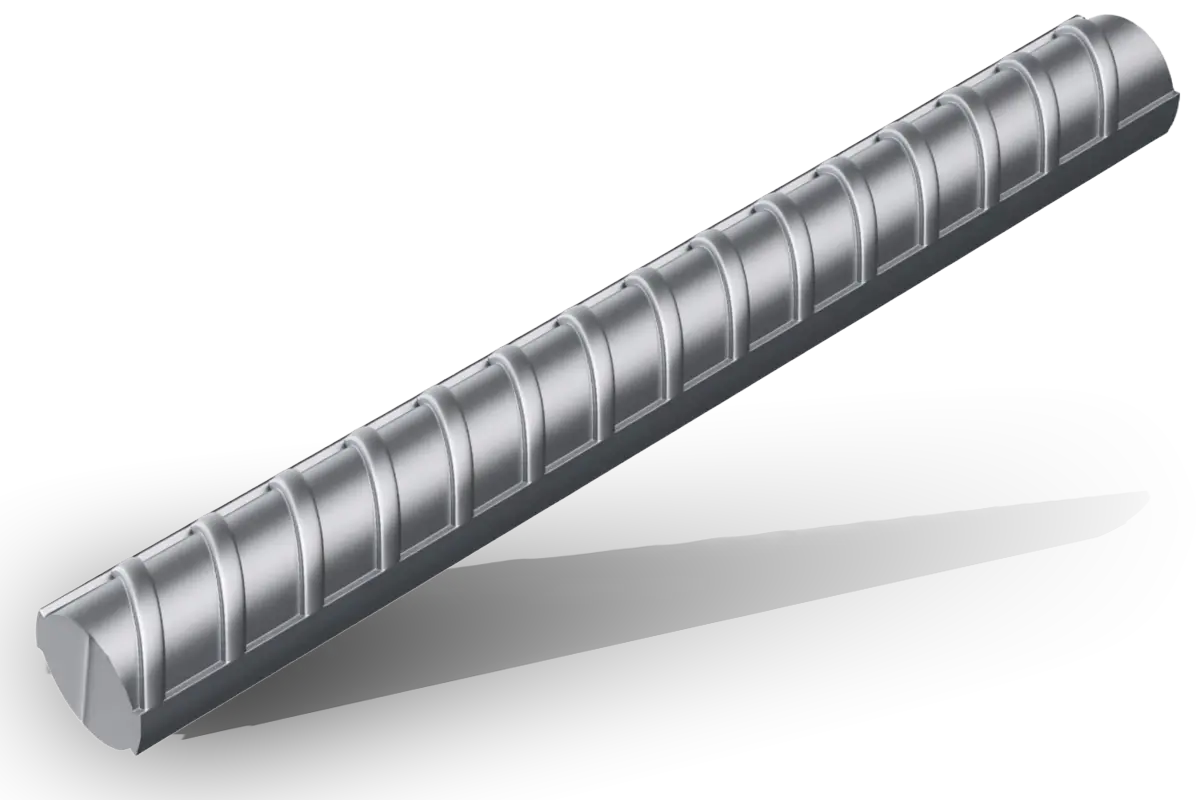
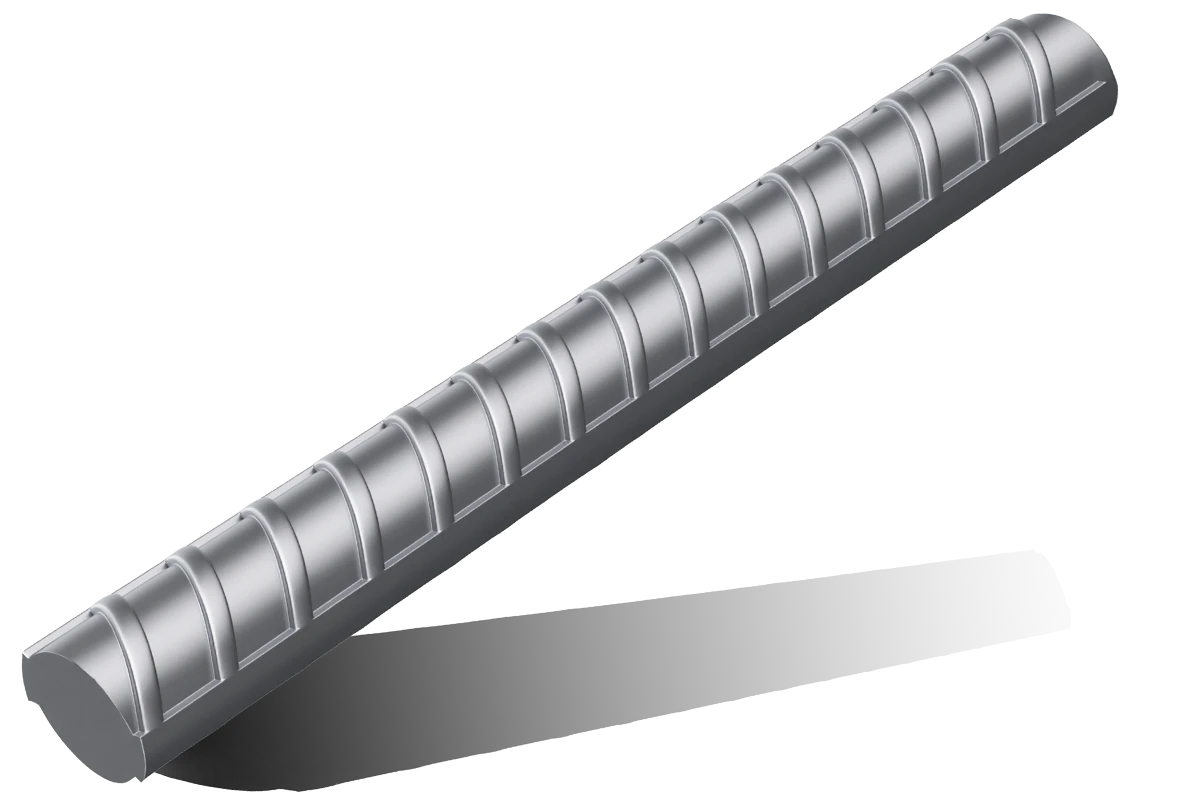
feat(products): redesign page with bilingual artwork and orange theme
- Add bilingual background image to right panel (warehouse photo
  at 40% opacity) and bilingual 3D product renders (TMT bars,
  billets) keyed by slug + language via getProductImage helper.
- Replace shadow-baked TMT renders with clean versions.
- Set left panel to solid brand orange (bg-primary), right panel
  inherits black from section with background image overlay.
- Warm opposite-language assets during idle time and add Blade
  preload hints on products.index route.
- Redesign desktop thumbnails: remove border/ring/opacity/dark
  overlay, render images as object-contain, selected product name
  in orange + bold + larger text, non-selected in plain white.
- Restyle Explore More and Back to Products buttons to solid
  white with orange text, subtle bounce animation after 2s.
- Reposition featured product image further right on large
  screens; bump thumbnail base width from w-24 to w-36 so they
  aren't tiny between 1024–1279px.
- Move next-product nav button further left with brighter
  border/text for visibility.
- Adapt all expanded-section colors for orange background: table
  headers, spec icons, checkmarks, feature cards, quote button,
  and tab borders switched from orange accents to white accents.
- Add bounce-subtle CSS keyframe (6px travel) in app.css.

Changed region(s): [[0.0, 0.0, 0.9867, 1.0]]

diff --git a/resources/js/Pages/Public/Products.tsx b/resources/js/Pages/Public/Products.tsx
@@ -87,11 +87,11 @@ function SpecDataTable({ tableData }: { tableData: { title: string; headers: str
       <div className="overflow-x-auto">
         <table className="w-full border-collapse">
           <thead>
-            <tr className="bg-white/10">
+            <tr className="bg-white/20">
               {tableData.headers.map((header: string, i: number) => (
                 <th
                   key={i}
-                  className="text-start py-3 px-4 text-sm font-semibold text-primary border-b border-white/10 max-w-32 relative cursor-pointer select-none"
+                  className="text-start py-3 px-4 text-sm font-semibold text-white border-b border-white/20 max-w-32 relative cursor-pointer select-none"
                   title={header}
                   onClick={(e) => { e.stopPropagation(); setExpandedHeader(expandedHeader === i ? null : i); }}
                 >
@@ -126,7 +126,7 @@ function SpecDataTable({ tableData }: { tableData: { title: string; headers: str
           </thead>
           <tbody>
             {tableData.rows.map((row: string[], rowIndex: number) => (
-              <tr key={rowIndex} className="border-b border-white/5 hover:bg-white/5 transition-colors">
+              <tr key={rowIndex} className="border-b border-white/15 hover:bg-white/10 transition-colors">
                 {row.map((cell: string, cellIndex: number) => (
                   <td key={cellIndex} className={`py-3 px-4 text-sm ${cellIndex === 0 ? 'font-medium text-white' : 'text-white/70'}`}>
                     {cell}
@@ -228,7 +228,7 @@ export default function Products({ products }: Props) {
   const [showAttention, setShowAttention] = useState(false);
   useEffect(() => {
     if (!expanded) { setShowAttention(false); return; }
-    const timer = setTimeout(() => setShowAttention(true), 10000);
+    const timer = setTimeout(() => setShowAttention(true), 2000);
     return () => clearTimeout(timer);
   }, [expanded]);
 
@@ -236,7 +236,7 @@ export default function Products({ products }: Props) {
   const [showExploreAttention, setShowExploreAttention] = useState(false);
   useEffect(() => {
     if (expanded) { setShowExploreAttention(false); return; }
-    const timer = setTimeout(() => setShowExploreAttention(true), 10000);
+    const timer = setTimeout(() => setShowExploreAttention(true), 2000);
     return () => clearTimeout(timer);
   }, [expanded, selectedSlug]);
 
@@ -364,10 +364,10 @@ export default function Products({ products }: Props) {
             <div className="grid grid-cols-3 gap-6 mt-8">
               {Object.entries(t(`products.${productKey}.specIcons`, { returnObjects: true }) as Record<string, { title: string; value: string }>).map(([key, icon]) => (
                 <div key={key} className="text-center">
-                  <div className="w-14 h-14 mx-auto mb-3 border border-white/20 rounded-lg flex items-center justify-center">
-                    {key === 'diameterRange' || key === 'crossSection' ? <Ruler className="text-white/70" size={24} /> :
-                     key === 'standards' || key === 'chemicalControl' ? <Shield className="text-white/70" size={24} /> :
-                     <Package className="text-white/70" size={24} />}
+                  <div className="w-14 h-14 mx-auto mb-3 border border-white/40 rounded-lg flex items-center justify-center">
+                    {key === 'diameterRange' || key === 'crossSection' ? <Ruler className="text-white" size={24} /> :
+                     key === 'standards' || key === 'chemicalControl' ? <Shield className="text-white" size={24} /> :
+                     <Package className="text-white" size={24} />}
                   </div>
                   <h4 className="text-white font-semibold text-sm mb-1">{icon.title}</h4>
                   <p className="text-white/60 text-xs">{icon.value}</p>
@@ -381,7 +381,7 @@ export default function Products({ products }: Props) {
               <ul className="space-y-2">
                 {(t(`products.${productKey}.highlights`, { returnObjects: true }) as string[]).map((item, i) => (
                   <li key={i} className="flex items-start gap-2 text-white/80 text-sm">
-                    <CheckCircle className="text-primary shrink-0 mt-0.5" size={16} />
+                    <CheckCircle className="text-white shrink-0 mt-0.5" size={16} />
                     {item}
                   </li>
                 ))}
@@ -396,7 +396,7 @@ export default function Products({ products }: Props) {
             <SpecDataTable
               tableData={t(`products.${productKey}.specTable`, { returnObjects: true }) as { title: string; headers: string[]; rows: string[][] }}
             />
-            <p className="text-white/50 text-sm italic mt-4">{t('products.specNote')}</p>
+            <p className="text-white/70 text-sm italic mt-4">{t('products.specNote')}</p>
           </div>
         );
 
@@ -406,10 +406,10 @@ export default function Products({ products }: Props) {
             {Object.entries(t(`products.${productKey}.features`, { returnObjects: true }) as Record<string, { title: string; description: string }>).map(([key, feature]) => {
               const Icon = featureIcons[key] ?? Zap;
               return (
-                <MagicCard key={key} className="bg-white/5 backdrop-blur-sm p-6 rounded-xl border border-white/10">
+                <MagicCard key={key} className="bg-white/10 backdrop-blur-sm p-6 rounded-xl border border-white/20">
                   <div className="relative z-10">
-                    <div className="w-10 h-10 rounded-lg bg-primary/10 flex items-center justify-center mb-4">
-                      <Icon className="text-primary" size={20} />
+                    <div className="w-10 h-10 rounded-lg bg-white/20 flex items-center justify-center mb-4">
+                      <Icon className="text-white" size={20} />
                     </div>
                     <h4 className="text-white font-semibold mb-2">{feature.title}</h4>
                     <p className="text-white/60 text-sm leading-relaxed">{feature.description}</p>
@@ -427,7 +427,7 @@ export default function Products({ products }: Props) {
             <p className="text-white/70 leading-relaxed mb-8">{t('products.requestQuote.description')}</p>
             <Link
               href="/contact"
-              className="inline-flex items-center px-8 py-3 bg-primary hover:bg-primary/90 text-white rounded-full font-medium transition-colors"
+              className="inline-flex items-center px-8 py-3 bg-white hover:bg-white/90 text-primary rounded-full font-semibold transition-colors"
             >
               {t('products.requestQuote.button')}
               <ArrowRight className="ms-2 rtl:rotate-180" size={18} />
@@ -447,7 +447,7 @@ export default function Products({ products }: Props) {
       <h1 className="sr-only">{t('products.hero.title')}</h1>
 
       {/* Main Split Section */}
-      <section className="relative flex flex-col lg:flex-row min-h-screen overflow-hidden bg-linear-to-r from-gray-900 to-gray-800">
+      <section className="relative flex flex-col lg:flex-row min-h-screen overflow-hidden bg-black">
         {/* LEFT PANEL — Featured Product (wrapper for drop-shadow along diagonal) */}
         <div
           className="relative z-10"
@@ -459,25 +459,12 @@ export default function Products({ products }: Props) {
         >
         <div
           ref={leftPanelRef}
-          className="relative h-full overflow-hidden lg:bg-linear-to-r lg:from-gray-900 lg:to-gray-800"
+          className="relative h-full overflow-hidden lg:bg-primary"
           style={{
             clipPath: leftClipPath,
             backgroundSize: isLg ? '100vw 100%' : undefined,
           }}
         >
-          {/* Bilingual background artwork */}
-          <picture>
-            <img
-              key={`products-bg-${language}`}
-              src={`/images/products/background/bg-desktop-${language}.webp`}
-              alt=""
-              aria-hidden="true"
-              fetchPriority="high"
-              decoding="async"
-              className="hidden lg:block absolute inset-0 w-full h-full object-cover pointer-events-none"
-            />
-          </picture>
-          <div className="hidden lg:block absolute inset-0 bg-linear-to-r from-black/70 via-black/40 to-transparent pointer-events-none" />
           <div className={`relative h-full flex flex-col lg:flex-row ${expanded ? 'lg:overflow-hidden' : ''}`}>
             {/* Text Content — left side of the left panel */}
             <div className={`flex-1 flex flex-col px-4 py-8 sm:px-8 lg:py-12 lg:ps-[max(2rem,calc((100vw-1536px)/2+1rem))] lg:pe-8 ${expanded ? 'lg:overflow-y-auto scrollbar-thin justify-start pt-28!' : 'justify-center pt-24 lg:pt-0'}`}>
@@ -500,10 +487,8 @@ export default function Products({ products }: Props) {
                     </p>
                     <button
                       onClick={handleExplore}
-                      className={`inline-flex items-center px-8 py-3 rounded-full border text-white transition-all cursor-pointer group ${
-                        showExploreAttention
-                          ? 'border-primary/60 bg-white/10 animate-ring-pulse'
-                          : 'border-white/30 hover:bg-white/10'
+                      className={`inline-flex items-center px-8 py-3 rounded-full bg-white text-primary font-semibold hover:bg-white/90 transition-all cursor-pointer group ${
+                        showExploreAttention ? 'animate-bounce-subtle' : ''
                       }`}
                     >
                       {t('products.exploreMore')}
@@ -574,7 +559,7 @@ export default function Products({ products }: Props) {
 
         {/* Large Product Image — absolutely positioned over both panels, near the diagonal */}
         {!expanded && (
-          <div className="hidden lg:flex absolute z-20 bottom-16 items-end justify-center pointer-events-none max-w-[30%] -translate-x-1/2 left-[35%] xl:left-[40%] 2xl:left-[45%]">
+          <div className="hidden lg:flex absolute z-20 bottom-16 items-end justify-center pointer-events-none max-w-[30%] -translate-x-1/2 left-[40%] xl:left-[48%] 2xl:left-[52%]">
             <AnimatePresence mode="wait">
               <motion.div
                 key={`img-${selectedSlug}`}
@@ -589,7 +574,7 @@ export default function Products({ products }: Props) {
                     key={`hero-img-${selectedSlug}-${language}`}
                     src={getProductImage(selectedProduct)!}
                     alt={getName(selectedProduct)}
-                    className="max-h-36 xl:max-h-44 2xl:max-h-56 w-auto object-contain drop-shadow-2xl"
+                    className="max-h-36 xl:max-h-44 2xl:max-h-56 w-auto object-contain"
                   />
                 ) : (
                   <div className="w-48 h-48 rounded-full bg-white/5 flex items-center justify-center">
@@ -609,13 +594,11 @@ export default function Products({ products }: Props) {
               initial={{ opacity: 0, y: -10 }}
               animate={{ opacity: 1, y: 0 }}
               transition={{ duration: 0.4, delay: 0.2 }}
-              className={`inline-flex items-center gap-2 px-5 py-2.5 rounded-full border text-sm font-medium transition-all cursor-pointer group ${
-                showAttention
-                  ? 'border-primary/60 text-white bg-white/10 animate-ring-pulse'
-                  : 'border-white/20 text-white/70 hover:text-white hover:border-white/40 hover:bg-white/10'
+              className={`inline-flex items-center gap-2 px-5 py-2.5 rounded-full bg-white text-primary text-sm font-semibold hover:bg-white/90 transition-all cursor-pointer group ${
+                showAttention ? 'animate-bounce-subtle' : ''
               }`}
             >
-              <LayoutGrid size={15} className={showAttention ? 'text-primary' : 'text-white/50 group-hover:text-white/70'} />
+              <LayoutGrid size={15} />
               {t('products.backToProducts')}
               <ArrowLeft className="rtl:rotate-180 group-hover:-translate-x-1 transition-transform" size={15} />
             </motion.button>
@@ -653,14 +636,24 @@ export default function Products({ products }: Props) {
 
         {/* RIGHT PANEL — Product Navigation / Image (hidden on mobile when expanded) */}
         <div
-          className={`relative overflow-hidden lg:bg-black lg:-ms-120 ${expanded ? 'hidden lg:block' : ''}`}
+          className={`relative overflow-hidden lg:-ms-120 ${expanded ? 'hidden lg:block' : ''}`}
           style={{
             flex: rightFlex,
             transition: 'flex 0.6s cubic-bezier(0.4, 0, 0.2, 1)',
-            backgroundImage: 'linear-gradient(rgba(255,255,255,.1) 1px, transparent 1px), linear-gradient(90deg, rgba(255,255,255,.1) 1px, transparent 1px)',
-            backgroundSize: '60px 60px',
           }}
         >
+          {/* Bilingual background artwork */}
+          <picture>
+            <img
+              key={`products-bg-${language}`}
+              src={`/images/products/background/bg-desktop-${language}.webp`}
+              alt=""
+              aria-hidden="true"
+              fetchPriority="high"
+              decoding="async"
+              className="hidden lg:block absolute inset-0 w-full h-full object-cover pointer-events-none opacity-40"
+            />
+          </picture>
           <AnimatePresence mode="wait">
             {!expanded ? (
               /* --- DEFAULT: Product Thumbnails --- */
@@ -766,7 +759,7 @@ export default function Products({ products }: Props) {
                       <button
                         key={product.slug}
                         onClick={() => handleSelectProduct(product.slug)}
-                        className="group relative w-24 xl:w-40 2xl:w-56 transition-all duration-300 cursor-pointer"
+                        className="group relative w-36 xl:w-44 2xl:w-56 transition-all duration-300 cursor-pointer"
                       >
                         <div className="aspect-4/3 flex items-center justify-center">
                           {getProductImage(product) ? (
@@ -778,8 +771,8 @@ export default function Products({ products }: Props) {
                           )}
                         </div>
                         <h3
-                          className={`mt-2 text-xs uppercase tracking-wider text-center transition-colors ${
-                            isSelected ? 'text-primary font-bold' : 'text-white font-normal'
+                          className={`mt-2 uppercase tracking-wider text-center transition-all ${
+                            isSelected ? 'text-primary font-bold text-base xl:text-lg' : 'text-white font-normal text-xs'
                           }`}
                         >
                           {getName(product)}
@@ -790,7 +783,7 @@ export default function Products({ products }: Props) {
                 </div>
 
                 {/* Navigation button — positioned at bottom-right, independent of thumbnails */}
-                <div className="hidden lg:flex absolute bottom-8 end-0 pe-4 xl:pe-10 2xl:pe-16 3xl:pe-24">
+                <div className="hidden lg:flex absolute bottom-8 end-0 pe-20 xl:pe-40 2xl:pe-52 3xl:pe-64">
                   <button
                     onClick={() => {
                       const idx = products.findIndex(p => p.slug === selectedSlug);

diff --git a/resources/css/app.css b/resources/css/app.css
@@ -84,6 +84,19 @@ html[dir="rtl"] body {
     animation: ring-pulse 2s ease-in-out infinite;
 }
 
+@keyframes bounce-subtle {
+    0%, 100% {
+        transform: translateY(0);
+    }
+    50% {
+        transform: translateY(-6px);
+    }
+}
+
+.animate-bounce-subtle {
+    animation: bounce-subtle 1.5s ease-in-out infinite;
+}
+
 @keyframes detailSlideUp {
     from {
         opacity: 0;
